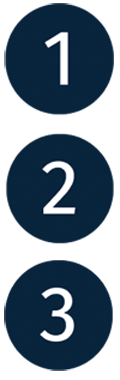
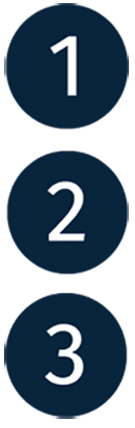
more styling to about page

diff --git a/src/components/About.js b/src/components/About.js
@@ -24,37 +24,28 @@ render(){
                     <h1> How it works </h1>
                       <div className="how">
                          <div className="how-container">
-                            <img className="number"src="/images/nasa-fun.png" />
+                            <img className="number"src="/images/nasa-fun4.png" />
                                 <div className="how-text"> <p>Join farmate. </p>
                                     <p className="fun"> Create a free account on farmate by registering.
                                  </p>
-                                <p> Add your field to our map and our system will tell you how much you need to irrigate each day to keep the optimum water level. </p> <p className="fun"> The calculations are performed based on your inputs when you first create the field and the latest agriculture engineering formulas.
+                                <p> Add your field to our map. Our system will tell you how much to irrigate each day to keep the optimum water level. You can add more than 1 field to keep track of all the different crop types and fields that you have. </p> <p className="fun"> The calculations are performed based on your inputs when you first create the field and the latest agriculture engineering formulas.
                                   </p>
-                                 <p className="fun"> See the fields and irrigation levels of your neighbours on the map and communicate your needs together better.
+                                 <p> See the fields and irrigation levels of your neighbours on the map and communicate your needs together better.
                                 </p>
+                                <p className="fun">You can also see the weather and rainfall predictions on the dashboard to be able to plan your farming actions better.
+                                 </p>
                                 </div>
                          </div>
-             
-               
-               
                     </div>
               </div>
                 <div id="page-section">
-                    <h3 className="section-title">Awesome features </h3>
-                    <p>You can more than 1 field to keep track of all the different crop types and fields that you have.
-                    </p>
-                    
-                    <p> Stay informed: our system will display the overall water level of your field, the rain fall as well as the water loss.
-                    </p>
-                    <p>You can also see the weather and rainfall predictions on the dashboard to be able to plan your farming actions better.
-                     </p>
                      <a href="/farmate/register" className="btn btn-info">Register now</a>
                 </div>
                 
             </div>
         </div>
          <div id="bottom-page">
-             <div id="page-section">
+             <div id="background-section">
                     <h1>Background</h1>
                     <p>Farmate employs various mathematical models based on latest research to predict the current water level. A variety of APIs are used to get the necessary data for the predictions.</p>
                     <p> To validate our idea we engaged in discussions in online farming forums with the farmer community. We also collaborated with Matti Kummu, Assistant Professor at Water development research group at Aalto University. We received a lot of positive feedback on our project. </p>

diff --git a/src/styles/About.scss b/src/styles/About.scss
@@ -18,7 +18,7 @@ height: 120vh;
     position: relative;
     margin: 0px 0px 0px 0px;
     padding-right: 0px;
-    height: 130vh;
+    height: 115vh;
     display: flex;
 }
 
@@ -46,6 +46,7 @@ height: 120vh;
   display: flex;
   flex-direction: row;
   background-color: rgba(6, 13, 79, 0.78);
+   overflow: auto;
   
 }
 #logostyle{
@@ -57,6 +58,11 @@ height: 120vh;
 #page-section {
   padding-top: 10px;
   padding-bottom: 5px;
+}
+#background-section {
+  padding-top: 10px;
+  padding-bottom: 5px;
+  margin-right: 50px;
 }
 
 #we {
@@ -86,7 +92,7 @@ align-self: center;
   }
 
  #bottom-page{
-  width: 90%;
+  width: 100%;
   position: absolute;
   align-self: left;
   float: left;
@@ -106,7 +112,9 @@ align-self: center;
   }
 
   .btn{
-      margin-top: 20px;
+      margin-top: 0px;
+      margin-left: 160px;
+      margin-bottom: 40px;
   }
 
 
